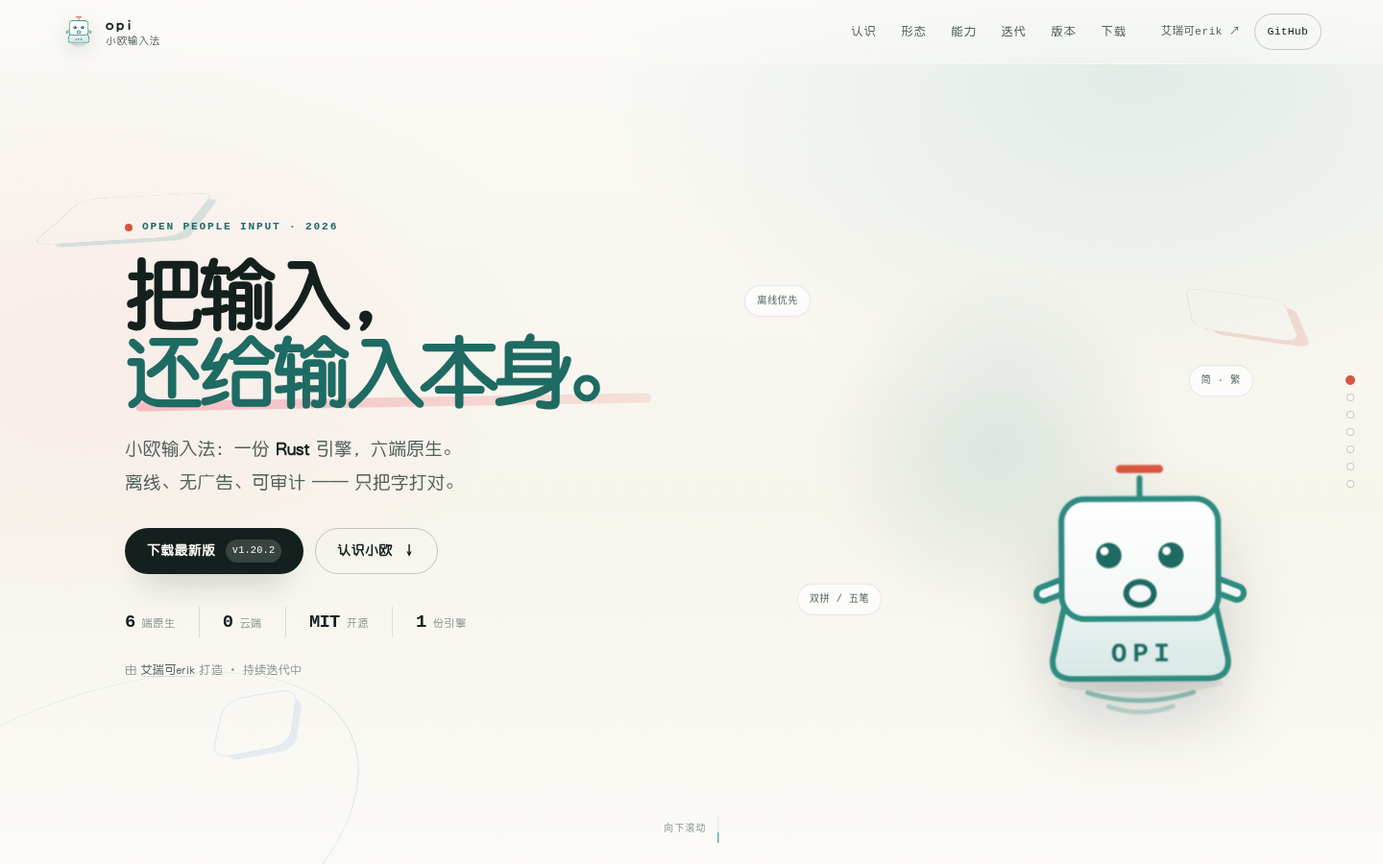
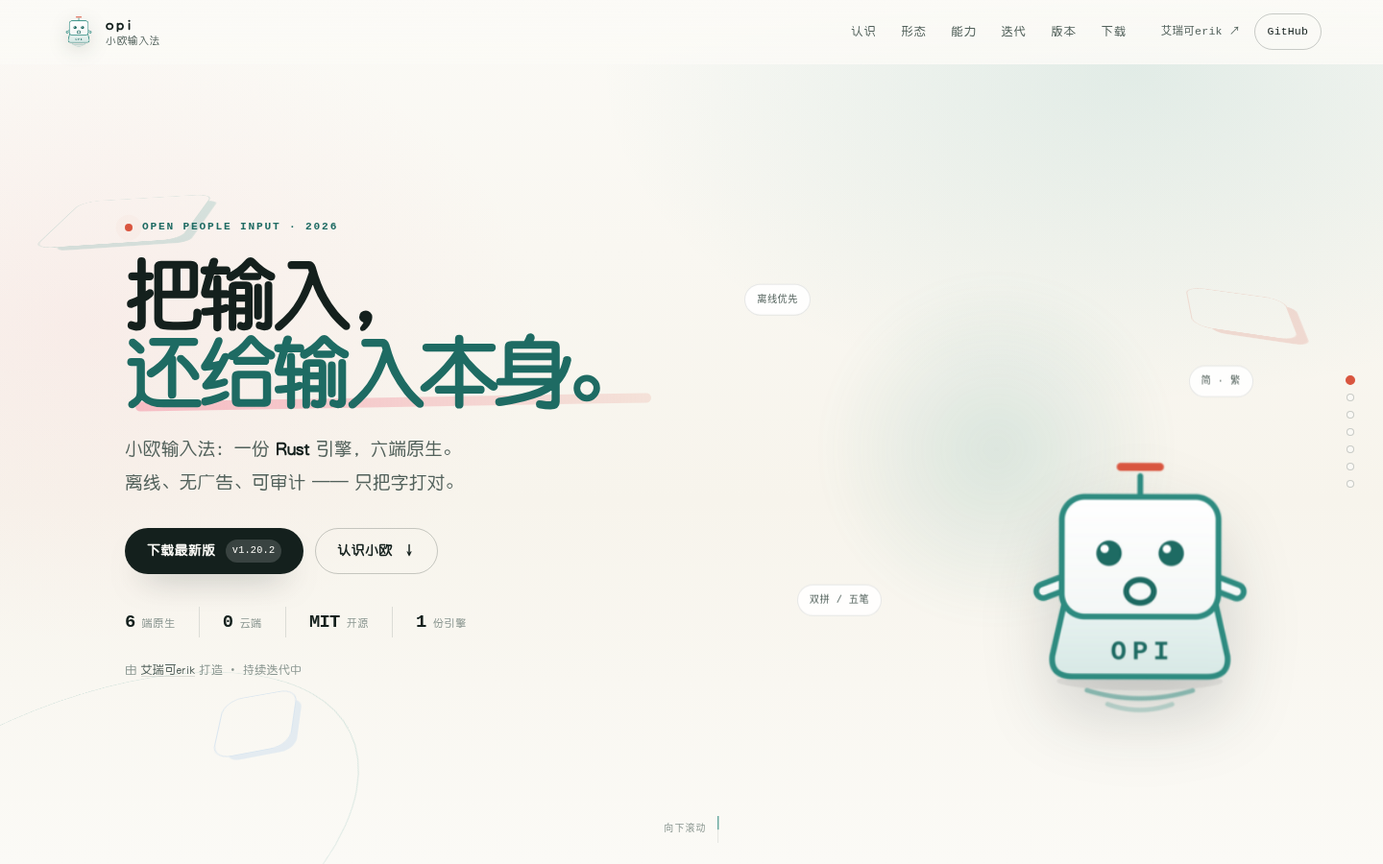
site: 按 README 同步验证范围与 v1.20.2，交互目标压到 50ms 内
- 明确只有 Android（模拟器）/ Linux（容器/本机）已验证，Windows/iOS/macOS/鸿蒙未真机验收
- 能力/时间线/下载区补 9 键读数、平铺候选、输入法内切换、单包交付与装完必做
- 交互路径移除 backdrop-filter、回忆遮罩改实色、首帧只画外壳并延后开场、
  弹窗复用已解码帧、3D 在 pointerdown/keydown 后暂停 350ms

diff --git a/site/index.html b/site/index.html
@@ -26,7 +26,6 @@
   <div class="ambient-3d" aria-hidden="true"><i class="ambient-key key-a"></i><i class="ambient-key key-b"></i><i class="ambient-key key-c"></i><i class="ambient-ring ring-a"></i><i class="ambient-ring ring-b"></i></div>
   <div class="boot-3d" aria-hidden="true"><img src="assets/pet/opi-pet.png" width="44" height="44" alt=""></div>
   <div class="scroll-progress" aria-hidden="true"><span></span></div>
-
   <header class="site-header" id="top">
     <a class="brand" href="#hero" aria-label="opi 小欧输入法首页">
       <img src="assets/pet/opi-pet.png" width="36" height="36" alt="">
@@ -45,7 +44,6 @@
       <a class="header-github" href="https://github.com/erikwang2013/opi" target="_blank" rel="noopener" aria-label="GitHub 仓库">GitHub</a>
     </div>
   </header>
-
   <main id="main">
     <section class="panel hero" id="hero" aria-labelledby="hero-title">
       <div class="container hero-grid">
@@ -75,7 +73,6 @@
       </div>
       <a class="scroll-cue" href="#about"><span>向下滚动</span><i aria-hidden="true"></i></a>
     </section>
-
     <section class="panel about" id="about" aria-labelledby="about-title">
       <div class="container about-grid">
         <div class="about-copy reveal">
@@ -99,7 +96,6 @@
         <div class="fact"><span class="fact-key">本机涟漪</span><span>运算不外传</span></div>
       </div>
     </section>
-
     <section class="panel forms" id="forms" aria-labelledby="forms-title">
       <div class="container">
         <div class="section-head reveal">
@@ -162,7 +158,6 @@
         <p class="forms-note">十二种形态均为 opi 自有资产，不是内置 emoji。输入法里以动画 GIF / PNG 贴纸插入，标签带「小欧·」前缀，和 emoji 不重名。</p>
       </div>
     </section>
-
     <section class="panel features" id="features" aria-labelledby="features-title">
       <div class="container">
         <div class="section-head reveal">
@@ -177,8 +172,8 @@
             <svg class="icon" aria-hidden="true"><use href="#i-engine"></use></svg>
             <span class="feature-num">01</span>
             <h3>一份引擎，六端原生</h3>
-            <p>Rust 核心 + 平台原生外壳：Android IME、fcitx5、Windows TSF、macOS / iOS 键盘扩展、鸿蒙 N-API。同一套词库与键码。</p>
-            <span class="tag">Rust · C ABI</span>
+            <p>Rust 核心 + 平台原生外壳：Android IME、fcitx5、Windows TSF、macOS / iOS 键盘扩展、鸿蒙 N-API。同一套词库与键码；Android（模拟器）与 Linux（容器 / 本机）已验证，其余四端待真机验收。</p>
+            <span class="tag">Rust · C ABI · 六端代码</span>
           </article>
           <article class="feature-card reveal">
             <svg class="icon" aria-hidden="true"><use href="#i-shield"></use></svg>
@@ -191,15 +186,15 @@
             <svg class="icon" aria-hidden="true"><use href="#i-keyboard"></use></svg>
             <span class="feature-num">03</span>
             <h3>中英文输入功能</h3>
-            <p>中文支持拼音、简繁、双拼、五笔、笔画与 26 / 9 / 14 键布局；英文支持普通 / 专业模式、单词联想与中英切换；模糊音、用户词、候选分页和逐字确认都在。</p>
-            <span class="tag">中 · 英 · 简繁 · 双拼 · 五笔</span>
+            <p>拼音 / 简繁 / 双拼 / 五笔 / 笔画，26 / 9 / 14 键布局；9 键左列读音、候选平铺、中英与简繁都在当前输入法内切换；英文普通 / 专业模式、单词联想；模糊音、简拼、逐字确认与本地学习。</p>
+            <span class="tag">中 · 英 · 简繁 · 9/14/26 键</span>
           </article>
           <article class="feature-card reveal">
             <svg class="icon" aria-hidden="true"><use href="#i-book"></use></svg>
             <span class="feature-num">04</span>
             <h3>词库是「活」的</h3>
-            <p>简体主库与繁体库分轨，康熙字典、现代繁体词与常用语持续并入；每条词库变更都有门禁和回归测试守着。</p>
-            <span class="tag">937,780 + 139,355 条</span>
+            <p>简体主库与繁体库分轨，康熙字典、现代繁体词与常用语持续并入；每条词库变更都有门禁和回归测试守着。代码 MIT，词库数据按 GPL-3.0 分发。</p>
+            <span class="tag">937,780 + 139,355 条 · GPL-3.0 数据</span>
           </article>
           <article class="feature-card reveal">
             <svg class="icon" aria-hidden="true"><use href="#i-spark"></use></svg>
@@ -212,8 +207,8 @@
             <svg class="icon" aria-hidden="true"><use href="#i-sliders"></use></svg>
             <span class="feature-num">06</span>
             <h3>克制的桌面体验</h3>
-            <p>候选窗、状态栏与设置页用 Compose 原生绘制；键大小 75–150% 统一调整，皮肤与简繁 / 英文键可按需摆放。</p>
-            <span class="tag">Compose Desktop</span>
+            <p>Linux / Windows 状态栏只在 OPI 激活时出现；候选窗、设置页、皮肤、键盘模式与符号/表情面板在 Android / iOS / 鸿蒙 / macOS / Linux 上按 Android 语义对齐。</p>
+            <span class="tag">状态栏 · 候选 · 面板</span>
           </article>
         </div>
       </div>
@@ -252,6 +247,12 @@
             <span class="phase-dot" style="--mood:#D9553F"></span>
             <h3>多端交付</h3>
             <p>iOS 宿主 App 与 unsigned IPA、鸿蒙 HAP 脚手架、Windows 注册链路修复、状态栏统一缩放；官网与 v1.16.0。</p>
+          </li>
+          <li class="phase reveal">
+            <span class="phase-date">2026.10.21</span>
+            <span class="phase-dot" style="--mood:#2E8B80"></span>
+            <h3>候选与安装收口</h3>
+            <p>iOS 9 键读数列 / 平铺候选 / 输入法内切换；Windows TSF 升级替换与无重启卸载；iOS / macOS 改为单一自包含包，v1.20.2。</p>
           </li>
         </ol>
       </div>
@@ -324,29 +325,29 @@
         </div>
         <div class="download-notice reveal" role="note">
           <strong>测试范围说明</strong>
-          <p>硬件资源和成本有限，仅验证 Android、Windows、Linux 端；其它端已完成代码适配，尚未测试验证。</p>
+          <p>受硬件资源与成本限制，目前只有 <strong>Android（模拟器）</strong>与 <strong>Linux（容器 / 本机）</strong>有运行验证。Windows / iOS / macOS / 鸿蒙已有可构建产物，但均未真机验收，签名也未验证。</p>
         </div>
-        <h3 class="download-group-title reveal">主推平台 <span>已验证 · 推荐下载</span></h3>
+        <h3 class="download-group-title reveal">主推平台 <span>推荐下载</span></h3>
         <div class="download-grid">
           <a class="download-card is-primary reveal" href="download/opi-1.20.2-android-universal.apk" download data-os="android">
             <span class="os-mark"><img src="assets/pet/forms/idle.png" width="46" height="46" alt="" loading="lazy" decoding="async"></span>
             <span class="os-name">Android</span>
             <span class="os-meta">原生 IME · .apk</span>
-            <span class="os-note">Android 5.1+ · arm64 / armv7 / x86_64</span>
+            <span class="os-note">Android 5.1+ · arm64 / armv7 / x86_64 · 模拟器已验证</span>
             <span class="os-cta">下载 APK <span aria-hidden="true">↓</span></span>
           </a>
           <a class="download-card is-primary reveal" href="download/opi-1.20.2-windows-x64-setup.exe" download data-os="windows">
             <span class="os-mark"><img src="assets/pet/forms/waiting.png" width="46" height="46" alt="" loading="lazy" decoding="async"></span>
             <span class="os-name">Windows</span>
             <span class="os-meta">TSF 插件 · .exe x64</span>
-            <span class="os-note">Windows 10 / 11；Win7 / 8 不支持</span>
+            <span class="os-note">Windows 10 / 11 x64 · 内测，未真机验收</span>
             <span class="os-cta">下载安装包 <span aria-hidden="true">↓</span></span>
           </a>
           <div class="download-card is-primary reveal" data-os="linux">
             <span class="os-mark"><img src="assets/pet/forms/cute.png" width="46" height="46" alt="" loading="lazy" decoding="async"></span>
             <span class="os-name">Linux</span>
             <span class="os-meta">fcitx5 插件 · .deb / .rpm</span>
-            <span class="os-note">Debian / Ubuntu 用 .deb；Fedora / openSUSE 用 .rpm</span>
+            <span class="os-note">Debian / Ubuntu 用 .deb；Fedora / openSUSE 用 .rpm · 容器 / 本机已验证</span>
             <a class="os-cta" href="download/opi-1.20.2-linux-amd64.deb" download>下载 .deb <span aria-hidden="true">↓</span></a>
             <a class="os-cta" href="download/opi-1.20.2-linux-x86_64.rpm" download>下载 .rpm <span aria-hidden="true">↓</span></a>
           </div>
@@ -358,7 +359,7 @@
             <span class="os-mark"><img src="assets/pet/forms/coquettish.png" width="46" height="46" alt="" loading="lazy" decoding="async"></span>
             <span class="os-name">macOS</span>
             <span class="os-meta">InputMethodKit · .pkg</span>
-            <span class="os-note">内测版本，约 7 天使用周期 · unsigned，需自行签名</span>
+            <span class="os-note">内测版本 · unsigned pkg，需自行签名 / 公证</span>
             <span class="os-cta">下载 PKG <span aria-hidden="true">↓</span></span>
           </a>
           <a class="download-card reveal" href="download/opi-1.20.2-ios-unsigned.ipa" download data-os="ios">
@@ -374,12 +375,13 @@
             <span class="os-mark"><img src="assets/pet/forms/knocking.png" width="46" height="46" alt="" loading="lazy" decoding="async"></span>
             <span class="os-name">HarmonyOS</span>
             <span class="os-meta">ArkTS + N-API · .hap</span>
-            <span class="os-note">内测版本，约 7 天使用周期 · unsigned HAP，需签名与真机验证</span>
+            <span class="os-note">内测版本 · unsigned HAP，需签名与真机验证</span>
             <span class="os-cta">下载 HAP <span aria-hidden="true">↓</span></span>
           </a>
         </div>
         <div class="download-foot reveal">
-          <p>文件直接放在本站的 <code>download/</code> 目录，不跳转 GitHub。安装说明见发行说明。</p>
+          <p>文件直接放在本站的 <code>download/</code> 目录，不跳转 GitHub。安装教程见 <a href="https://github.com/erikwang2013/opi/tree/main/docs/install" target="_blank" rel="noopener">docs/install</a> 与发行说明。</p>
+          <p><strong>装完必做</strong>：Linux 把 OPI 加进 fcitx5 输入法组；Windows 在「中文(简体)」键盘列表添加「小欧输入法」并注销 / 重启一次；iOS 在设置 → 通用 → 键盘中添加并允许；macOS 在输入源中添加。</p>
           <p class="download-hint">下载目录的版本与文件名和 <code>dist/</code> 保持一致；页面版本 v1.20.2。</p>
         </div>
         <aside class="donate reveal" aria-labelledby="donate-title">

diff --git a/site/css/base.css b/site/css/base.css
@@ -189,9 +189,9 @@ img { height: auto; }
   gap: clamp(14px, 2.4vw, 34px);
   padding: 14px clamp(18px, 4.6vw, 64px);
   border-bottom: 1px solid transparent;
-  background: linear-gradient(180deg, rgba(251, 250, 246, .86), rgba(251, 250, 246, .54));
-  -webkit-backdrop-filter: blur(16px) saturate(1.15);
-  backdrop-filter: blur(16px) saturate(1.15);
+  /* Opaque enough without backdrop-filter: blur() repaints the header on every
+     scroll frame and pushed interaction frames past the 50 ms budget. */
+  background: linear-gradient(180deg, rgba(251, 250, 246, .97), rgba(251, 250, 246, .88));
   transition: border-color .3s var(--ease), background .3s var(--ease);
 }
 .site-header.is-scrolled {
@@ -381,11 +381,14 @@ code { padding: .12em .38em; border-radius: 6px; background: var(--paper-3); fon
 .release-actions { display: flex; flex-wrap: wrap; align-items: center; gap: 10px; }
 .memory-overlay {
   position: fixed; inset: 0; z-index: 90; display: flex; align-items: center; justify-content: center;
-  padding: 20px; background: rgba(20, 32, 29, .5); -webkit-backdrop-filter: blur(10px); backdrop-filter: blur(10px);
+  padding: 20px; background: #14201d;
   opacity: 0; visibility: hidden; transition: opacity .22s var(--ease), visibility .22s var(--ease);
 }
 .memory-overlay[hidden] { display: none; }
 .memory-overlay.is-open { opacity: 1; visibility: visible; }
+/* First painted frame is the overlay shell only; the card is revealed on the next
+   frame so opening never waits on the 90+ node release history paint. */
+.memory-overlay.is-shell .memory-card { visibility: hidden; }
 body.memory-open { overflow: hidden; }
 .memory-card {
   display: flex; flex-direction: column; width: min(760px, 100%); max-height: min(86vh, 760px);
@@ -410,7 +413,7 @@ body.memory-open { overflow: hidden; }
 .memory-intro-single p { margin: 0; color: var(--primary-deep); font-size: 1rem; font-weight: 700; letter-spacing: .06em; }
 .memory-intro-single span { color: var(--ink-faint); font-family: var(--font-mono); font-size: .62rem; letter-spacing: .08em; }
 @keyframes memory-bg-breathe { 0%, 100% { opacity: .08; } 50% { opacity: .18; } }
-.memory-viewport { position: relative; flex: 1; min-height: 0; height: min(52vh, 420px); overflow-y: auto; overflow-x: hidden; overscroll-behavior: contain; -webkit-overflow-scrolling: touch; touch-action: pan-y; scrollbar-width: thin; scrollbar-color: var(--line-strong) transparent;
+.memory-viewport { position: relative; flex: 1; min-height: 0; height: min(52vh, 420px); contain: layout paint; overflow-y: auto; overflow-x: hidden; overscroll-behavior: contain; -webkit-overflow-scrolling: touch; touch-action: pan-y; scrollbar-width: thin; scrollbar-color: var(--line-strong) transparent;
   -webkit-mask-image: linear-gradient(180deg, transparent 0, #000 7%, #000 93%, transparent 100%);
   mask-image: linear-gradient(180deg, transparent 0, #000 7%, #000 93%, transparent 100%);
 }
@@ -422,7 +425,7 @@ body.memory-open { overflow: hidden; }
 .memory-forms-pet { position: relative; z-index: 0; display: flex; flex-direction: column; align-items: center; gap: 2px; margin: 0; padding: 5px 2px 4px; border-radius: 10px; overflow: hidden; }
 .memory-forms-pet::before { content: ""; position: absolute; inset: 0; pointer-events: none; background: radial-gradient(circle at 50% 38%, var(--mood), transparent 70%); opacity: .18; animation: memory-mood-breathe 3.6s ease-in-out infinite; }
 .memory-forms-pet img, .memory-forms-pet figcaption { position: relative; z-index: 1; }
-.memory-forms-pet img { width: 48px; height: 48px; object-fit: contain; filter: drop-shadow(0 8px 10px rgba(20, 32, 29, .12)); }
+.memory-forms-pet img { width: 48px; height: 48px; object-fit: contain; }
 .memory-forms-pet figcaption { color: var(--ink-soft); font-size: .56rem; white-space: nowrap; }
 @keyframes memory-mood-breathe { 0%, 100% { opacity: .12; transform: scale(.92); } 50% { opacity: .3; transform: scale(1.08); } }
 .memory-item { display: grid; grid-template-columns: 6.4rem 5rem minmax(0, 1fr); gap: 10px; align-items: baseline;
@@ -437,7 +440,7 @@ body.memory-open { overflow: hidden; }
 .memory-pet { display: flex; padding: 5px 24px; pointer-events: none; opacity: 0; transform: translateY(24px); transition: opacity .45s var(--ease), transform .45s var(--ease); }
 .memory-pet.is-in { opacity: 1; transform: none; }
 .memory-pet.is-right { justify-content: flex-end; padding-right: 12%; }
-.memory-pet img { width: 54px; height: 54px; object-fit: contain; opacity: .9; filter: drop-shadow(0 8px 10px rgba(20, 32, 29, .13)); }
+.memory-pet img { width: 54px; height: 54px; object-fit: contain; opacity: .9; }
 .memory-foot { display: flex; align-items: center; gap: 14px; padding: 14px 24px 16px; border-top: 1px solid var(--line); }
 .memory-hint { flex: 0 0 auto; color: var(--ink-faint); font-family: var(--font-mono); font-size: .58rem; letter-spacing: .04em; }
 .memory-overlay.is-paused .memory-hint::before { content: "暂停中 · "; color: var(--accent); }

diff --git a/site/css/sections.css b/site/css/sections.css
@@ -63,14 +63,12 @@
   padding: 7px 12px;
   border: 1px solid rgba(20, 32, 29, .1);
   border-radius: 999px;
-  background: rgba(255, 255, 255, .7);
+  background: rgba(255, 255, 255, .88);
   color: var(--ink-soft);
   font-family: var(--font-mono);
   font-size: .64rem;
   letter-spacing: .04em;
   box-shadow: 0 10px 24px -18px rgba(20, 32, 29, .5);
-  -webkit-backdrop-filter: blur(8px);
-  backdrop-filter: blur(8px);
   animation: drift 7s ease-in-out infinite;
 }
 .chip-a { left: 2%; top: 19%; animation-delay: -1s; }
@@ -204,7 +202,7 @@
 .tag { margin-top: auto; align-self: flex-start; padding: 4px 8px; border: 1px solid var(--line); border-radius: 999px; color: var(--ink-faint); font-family: var(--font-mono); font-size: .6rem; letter-spacing: .03em; }
 
 /* ---------- Timeline ---------- */
-.timeline-track { position: relative; display: grid; grid-template-columns: repeat(4, minmax(0, 1fr)); gap: clamp(16px, 2vw, 30px); margin: 0; padding: 0; list-style: none; }
+.timeline-track { position: relative; display: grid; grid-template-columns: repeat(5, minmax(0, 1fr)); gap: clamp(16px, 2vw, 30px); margin: 0; padding: 0; list-style: none; }
 .timeline-track::before { content: ""; position: absolute; left: 0; right: 0; top: 42px; height: 1px; background: linear-gradient(90deg, var(--line), rgba(46, 139, 128, .4), var(--line)); }
 .phase { position: relative; padding-top: 62px; }
 .phase-date { position: absolute; top: 0; left: 0; color: var(--ink-faint); font-family: var(--font-mono); font-size: .68rem; letter-spacing: .04em; }
@@ -336,7 +334,7 @@
 .form-dialog:not([open]) { display: none; }
 .form-dialog[open] { display: block; }
 .form-dialog { position: fixed; inset: 0; z-index: 82; width: min(520px, calc(100vw - 32px)); max-height: calc(100vh - 32px); max-height: calc(100dvh - 32px); margin: auto; padding: 0; overflow: auto; border: 1px solid var(--line); border-radius: var(--radius); background: var(--paper); color: var(--ink); box-shadow: 0 40px 100px -30px rgba(20, 32, 29, .45); overscroll-behavior: contain; animation: form-pop .18s var(--ease); }
-.form-backdrop { position: fixed; inset: 0; z-index: 81; touch-action: none; background: rgba(20, 32, 29, .34); -webkit-backdrop-filter: blur(4px); backdrop-filter: blur(4px); animation: form-fade .16s ease-out; }
+.form-backdrop { position: fixed; inset: 0; z-index: 81; touch-action: none; background: rgba(20, 32, 29, .42); animation: form-fade .16s ease-out; }
 .form-backdrop[hidden] { display: none; }
 body.form-modal-open { overflow: hidden; }
 @keyframes form-fade { from { opacity: 0; } to { opacity: 1; } }
@@ -353,7 +351,7 @@ body.form-modal-open { overflow: hidden; }
 /* 打赏二维码：点按后在原页放大，不跳新标签。 */
 .qr-dialog:not([open]) { display: none; }
 .qr-dialog { position: fixed; inset: 0; z-index: 84; width: min(560px, calc(100vw - 28px)); max-height: calc(100vh - 28px); max-height: calc(100dvh - 28px); margin: auto; padding: 18px; overflow: auto; border: 1px solid var(--line); border-radius: 18px; background: var(--paper); color: var(--ink); box-shadow: 0 40px 100px -30px rgba(20, 32, 29, .5); animation: form-pop .18s var(--ease); }
-.qr-dialog::backdrop { background: rgba(20, 32, 29, .42); -webkit-backdrop-filter: blur(6px); backdrop-filter: blur(6px); }
+.qr-dialog::backdrop { background: rgba(20, 32, 29, .5); }
 .qr-dialog img { width: 100%; height: auto; max-height: calc(100vh - 110px); max-height: calc(100dvh - 110px); object-fit: contain; border-radius: 10px; background: #fff; }
 .qr-dialog p { margin: 10px 0 0; color: var(--ink-soft); font-size: .78rem; text-align: center; }
 

diff --git a/site/js/memory.js b/site/js/memory.js
@@ -134,6 +134,9 @@
     img.height = 112;
     img.alt = '';
     img.decoding = 'async';
+    // First frame is needed the moment the overlay opens; decode/cache it
+    // during idle with the rest of the overlay skeleton.
+    img.src = `assets/pet/forms/${animFile(memoryIntroForms[0][0])}`;
     const label = document.createElement('p');
     const count = document.createElement('span');
     single.append(img, label, count);
@@ -355,9 +358,14 @@
     document.body.classList.add('memory-open');
     markMemorySeen();
     window.requestAnimationFrame(() => {
-      memoryOverlay.classList.add('is-open');
-      startMemoryIntro();
+      // Shell first: the overlay responds immediately, the heavy card content
+      // paints on the next frame (both well inside the 50 ms budget).
+      memoryOverlay.classList.add('is-open', 'is-shell');
       memoryClose?.focus?.({ preventScroll: true });
+      window.requestAnimationFrame(() => {
+        memoryOverlay.classList.remove('is-shell');
+        startMemoryIntro();
+      });
     });
   };
 

diff --git a/site/js/site.js b/site/js/site.js
@@ -194,9 +194,13 @@
 
   const openDialog = (card) => {
     if (dialog.hasAttribute('open')) return;
+    const shown = card.querySelector('img');
+    // Use the already-decoded card frame when possible: swapping in the
+    // animation URL here forces a fresh decode and pushed the open past 50 ms.
+    const loaded = shown?.currentSrc || shown?.getAttribute('src') || '';
     const anim = card.dataset.anim;
-    const still = card.querySelector('img')?.dataset.still;
-    const next = reduceMotion && still ? still : (anim || still || '');
+    const still = shown?.dataset.still;
+    const next = loaded || (reduceMotion && still ? still : (anim || still || ''));
     if (dialogImage && next && dialogImage.getAttribute('src') !== next) dialogImage.src = next;
     if (dialogName) dialogName.textContent = card.dataset.name || '';
     if (dialogNote) dialogNote.textContent = card.dataset.note || '';

diff --git a/site/js/pet3d.js b/site/js/pet3d.js
@@ -200,8 +200,22 @@ resize();
 let heroVisible = true;
 const clock = new THREE.Clock();
 let running = false;
+// Yield the main thread for a few frames around any input. A single 3D frame
+// landing between click and paint was the only path that pushed a dialog open
+// past the 50 ms response budget.
+let interactionUntil = 0;
+let interactionTimer = 0;
+const yieldToInput = () => {
+  interactionUntil = performance.now() + 350;
+  syncLoop();
+  window.clearTimeout(interactionTimer);
+  interactionTimer = window.setTimeout(syncLoop, 380);
+};
+window.addEventListener('pointerdown', yieldToInput, { passive: true });
+window.addEventListener('keydown', yieldToInput, { passive: true });
 
 const canRender = () => !reduceMotion && heroVisible && !document.hidden
+  && performance.now() >= interactionUntil
   && !document.body.classList.contains('memory-open');
 
 const syncLoop = () => {

diff --git a/site/css/responsive.css b/site/css/responsive.css
@@ -110,7 +110,7 @@
   .download-card.is-primary .os-cta { padding: 7px 12px; font-size: .72rem; }
   .download-grid.is-minor .download-card { min-height: 126px; padding: 12px; }
   .donate-qr img { width: 96px; }
-  .memory-overlay { -webkit-backdrop-filter: none; backdrop-filter: none; background: rgba(20, 32, 29, .62); }
+  .memory-overlay { -webkit-backdrop-filter: none; backdrop-filter: none; background: #14201d; }
   .form-backdrop { -webkit-backdrop-filter: none; backdrop-filter: none; }
   .os-current { right: 12px; top: 12px; font-size: .52rem; }
   .os-mark { width: 28px; height: 28px; margin-bottom: 13px; font-size: .55rem; }

diff --git a/site/README.md b/site/README.md
@@ -46,12 +46,18 @@ site/
   初始加载不再为 76 条历史版本付布局成本。
 - 形态弹窗使用 `dialog.show()` + 自定义遮罩与焦点循环，避免 `showModal()` 的
   一次数百毫秒级样式计算；打开后焦点回到原形态卡。
-- 交互处理只做一次 rAF 批处理并缓存滚动尺寸；本机无头 Chrome（ANGLE/Intel 硬件
-  WebGL）实测：点击处理函数 <1.5ms；空闲机器上事件总耗时（含合成帧）16–48ms，
-  系统繁忙或 4× CPU 降速时合成帧可能到 56–96ms。加载阶段 three.js 首次编译有一次
-  性长任务，不阻塞后续交互；CSS 3D 环境层不产生长任务。
+- **交互响应目标是 <50ms**（点击/触摸到第一帧可见变化）。为此交互路径上不使用实时
+  `backdrop-filter`：顶栏、hero 胶囊、形态遮罩、二维码遮罩全部改为实色/高不透明度，
+  回忆时光机用实色底；回忆开场动画延迟一帧启动并预载首图；形态弹窗复用卡片里**已经
+  解码**的那一帧，不再临时换 `src`；three.js 在 `pointerdown`/`keydown` 后暂停 350ms，
+  把主线程让给点击与首帧。
+- 交互处理只做一次 rAF 批处理并缓存滚动尺寸。本机无头 Chrome（ANGLE/Intel 硬件
+  WebGL，空闲）实测：表单/二维码/回忆/导航四类点击处理 0.6–18ms，首帧 9–42ms；
+  移动端视口同口径 15–30ms。加载阶段 three.js 首次编译与回忆 DOM 预热是**空闲期**
+  一次性长任务，不会在点击路径上执行；CSS 3D 环境层不产生长任务。
   移动端首屏传输约 119 KB（此前约 1.03 MB），进入形态区时才加载动图。
-  这不是发布门禁，实际值受设备与浏览器影响，发布前用 Lighthouse / DevTools Performance 复测。
+  50ms 是目标而非跨设备保证：低端机、系统繁忙、4× CPU 降速或浏览器合成器卡顿时
+  仍可能超过；发布前用 Lighthouse / DevTools Performance 在目标设备复测。
 
 ## 移动端兼容
 
